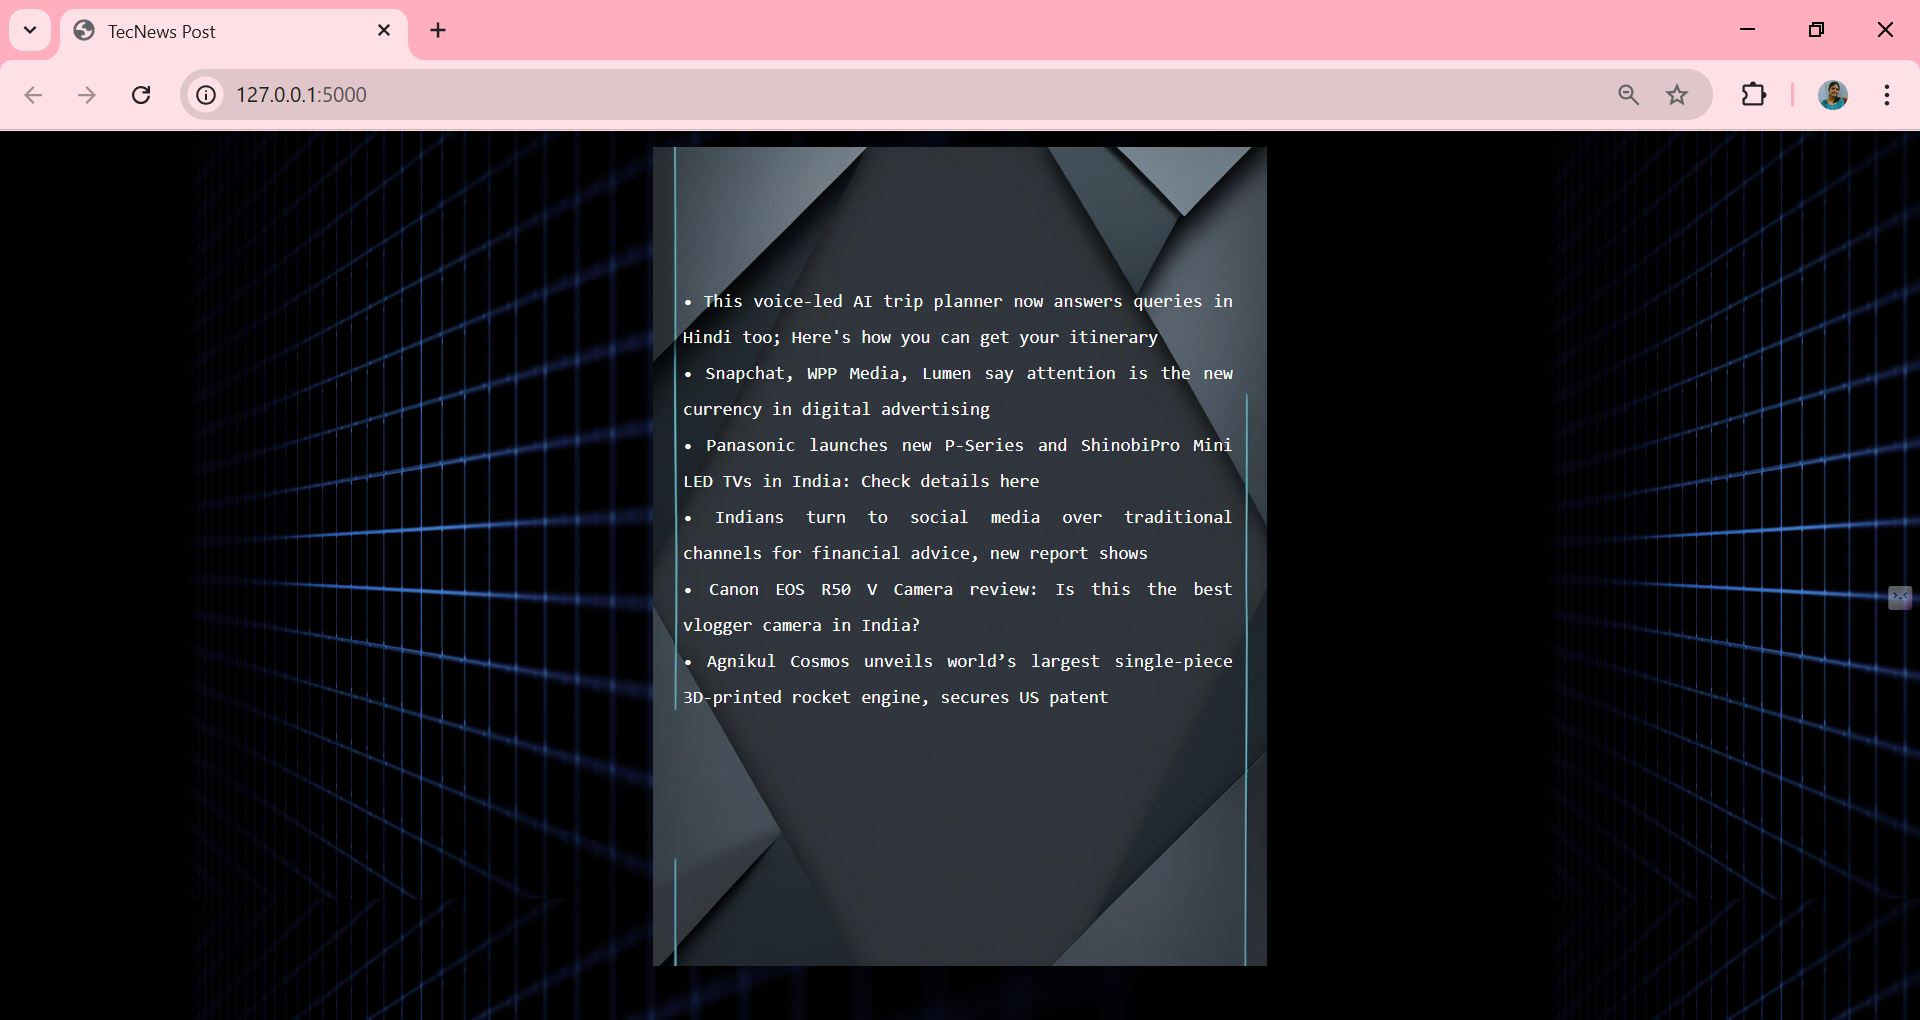
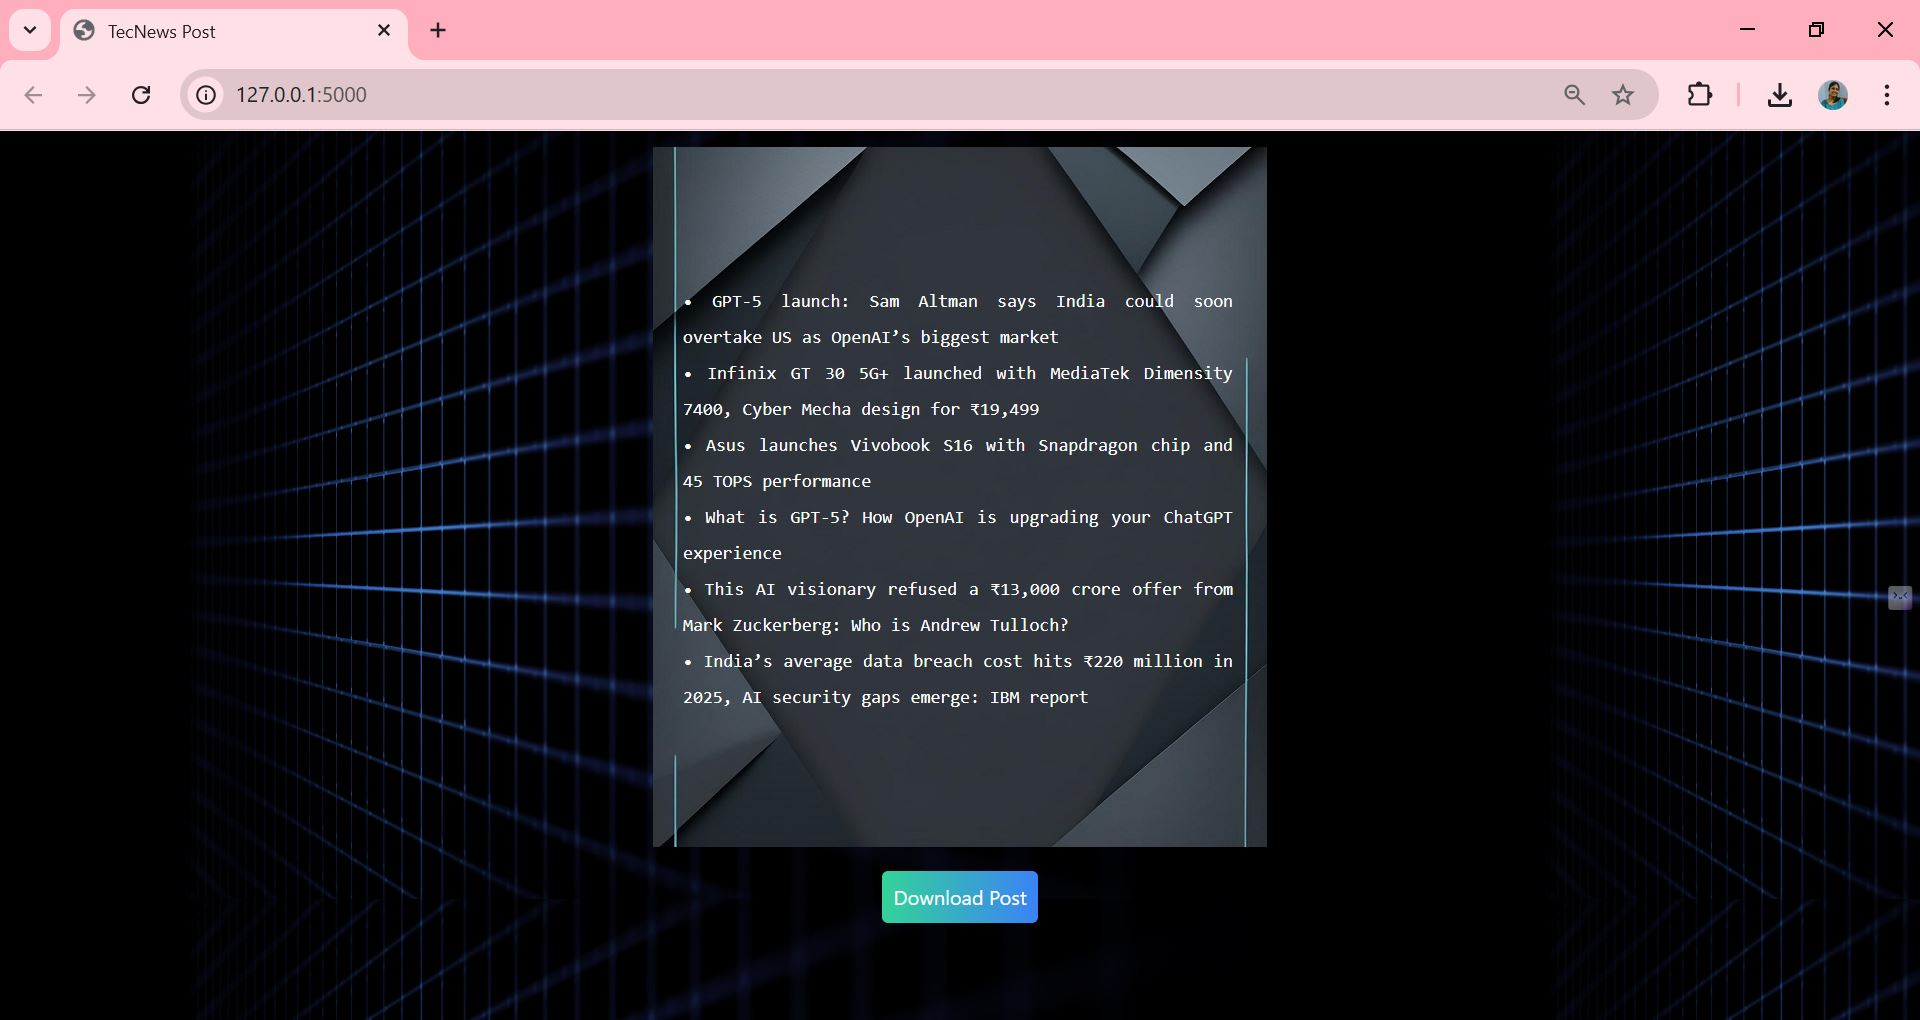
made a few updates

Changed region(s): [[0.3125, 0.1824, 0.6875, 0.9725], [0.8438, 0.0608, 0.9375, 0.1216], [0.4062, 0.1824, 0.4375, 0.2127]]

diff --git a/templates/index.html b/templates/index.html
@@ -7,7 +7,6 @@ background-attachment: fixed;">
     <meta http-equiv="X-UA-Compatible" content="IE=edge">
     <meta name="viewport" content="width=device-width, initial-scale=1.0">
     <title>TecNews Post</title>
-    <!--<link rel="stylesheet" href="{{url_for('static',filename='css//style.css')}}">-->
     <link href="https://unpkg.com/tailwindcss@^2/dist/tailwind.min.css" rel="stylesheet">
 
 <body>
@@ -37,11 +36,10 @@ background-attachment: fixed;">
     <script src="/static/js/h2c.min.js"></script>
     <script>
         function download() {
-            html2canvas(document.getElementById("container"), { height: 700, width: 614 }).then(canvas => {
-                //document.body.appendChild(canvas);
+            html2canvas(document.getElementById("container"), { height: 700, width: 614 }).then(canvas => {                
                 var a = document.createElement('a');
                 a.href = canvas.toDataURL("image/jpeg").replace("image/jpeg", "image/octet-stream");
-                a.download = 'somefilename.jpg';
+                a.download = 'post.jpg';
                 a.click();
             });
         }

diff --git a/app.py b/app.py
@@ -2,27 +2,12 @@ from flask import Flask,url_for,render_template,request
 from bs4 import BeautifulSoup
 import requests
 
-
-# url = "https://www.businesstoday.in/technology/news"
-# req = requests.get(url)
-# soup = BeautifulSoup(req.content, 'html.parser')
-    #outerData = soup.find_all("div",class_="widget-listing",limit=6)
-    #print(outerData)
-# finalNews=""
-# for data in soup.find_all("div",class_="Section_widget_listing__Bf6q8",limit=6):
-#     # news = data
-#     news=data.div.div.a["title"]
-#     finalNews += '\u2022 '+news+'\n'
-# print(finalNews)
-
 app = Flask(__name__)
 @app.route('/',methods=["GET","POST"])
 def index():
     url = "https://www.businesstoday.in/technology/news"
     req = requests.get(url)
     soup = BeautifulSoup(req.content, 'html.parser')
-    #outerData = soup.find_all("div",class_="widget-listing",limit=6)
-    #print(outerData)
     finalNews=""
     for data in soup.find_all("div",class_="Section_widget_listing__Bf6q8",limit=6):
         news=data.div.div.a["title"]
